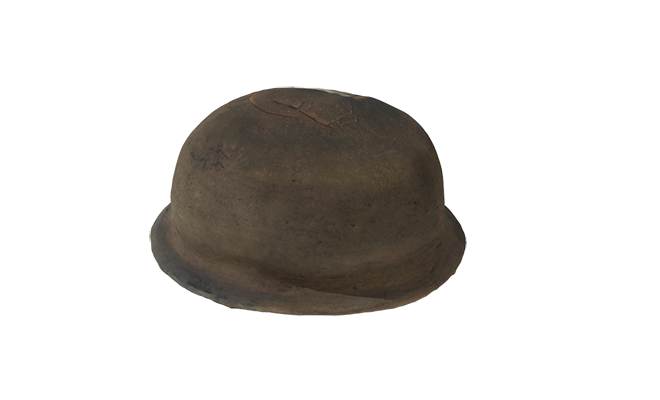
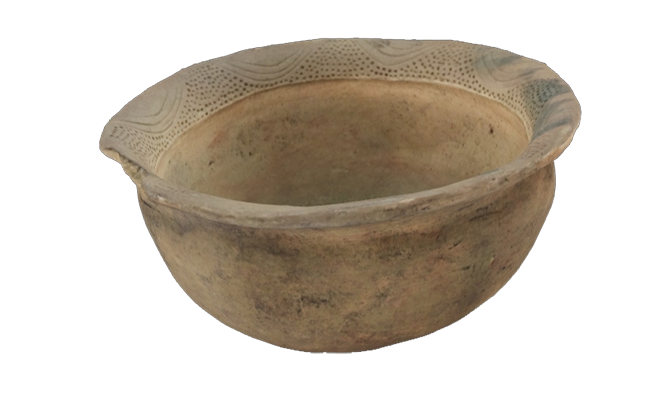
PO changes v1.0

diff --git a/piece-a.html b/piece-a.html
@@ -94,7 +94,7 @@
                             <div class="accordion-content">
                               <p>E/R28/248cm/2627</p>
                               <p>
-                                Copa con boca circular, presenta motivos en pintura negra sobre naranja (Olsen, 1990)
+                                Copa con boca circular, presenta motivos en pintura negra sobre naranja, tipo de pintura negativa  (Olsen, 1990).
                               </p>
                             </div>
                         </div>
@@ -108,10 +108,10 @@
                               cerámica perteneciente al Cauca medio. Se encontró en estructuras funerarias, asociada a grupos agroalfareros t tardío. (Herrera et al, 2017)
                             </p>
                             <p>
-                              Las piezas de cerámica de E/R29/216cm/2652, E/R29/209cm/3904 y E/R28/248cm/2627 son resultados del proyecto de investigación del plan de manejo arqueológico llamado "Monitoreo y rescate arqueológico en la Variante La Paz, predios El Edén, La Guaca, Jamaica y La Libia, municipio de Chinchiná, departamento de Caldas, Ecorregión Eje Cafetero". El objetivo de este proyecto es desarrollar actividades y métodos que permitan un registro completo de la evidencia arqueológica para identificar e interpretar el uso que los antiguos pobladores prehispánicos le dieron al espacio en el que vivian. (AEROCAFE 2018 PAG 1)
+                              Las piezas de cerámica de E/R29/216cm/2652, E/R29/209cm/3904 y E/R28/248cm/2627 son resultados del proyecto de investigación del plan de manejo arqueológico llamado "Monitoreo y rescate arqueológico en la Variante La Paz, predios El Edén, La Guaca, Jamaica y La Libia, municipio de Chinchiná, departamento de Caldas, Ecorregión Eje Cafetero". El objetivo de este proyecto es desarrollar actividades y métodos que permitan un registro completo de la evidencia arqueológica para identificar e interpretar el uso que los antiguos pobladores prehispánicos le dieron al espacio en el que vivian.  (Aldana et al., 2018)
                             </p>
                             <p>
-                              Los objetos que seleccionaron se encuentran en el terreno Edén, que se encuentra en la cima de terrazas aluviales en medio de zonas montañosas con pendientes altas. Debido a su alta fertilidad, estas áreas suelen mostrar indicios de ocupación humana prehispánica.  (AEROCAFE 2018 PAG 1). En el proceso de excavación de una estructura funeraria de pozo con cámara frontal a una profundidad de 2m a 2:30 m, se encontró la cerámica que se leccionó en los Rasgos 28 y 29, y se determinó una fecha de 550 +/-30 BP (Beta 465521), lo que indica una época tardía.(AEROCAFE 2018 PAG 203) colección etnográfica pag 10 
+                              Los objetos que seleccionaron se encuentran en el terreno Edén, que se encuentra en la cima de terrazas aluviales en medio de zonas montañosas con pendientes altas. Debido a su alta fertilidad, estas áreas suelen mostrar indicios de ocupación humana prehispánica. (Aldana et al., 2018). En el proceso de excavación de una estructura funeraria de pozo con cámara frontal a una profundidad de 2m a 2:30 m, se encontró la cerámica que se leccionó en los Rasgos 28 y 29, y se determinó una fecha de 550 +/-30 BP (Beta 465521), lo que indica una época tardía. (Aldana et al., 2018). 
                             </p>
                         </div>
                     </div>

diff --git a/piece-h.html b/piece-h.html
@@ -106,7 +106,7 @@
                               cerámica perteneciente al Cauca medio. Se encontró en estructuras funerarias, asociada a grupos agroalfareros t tardío. (Herrera etal, 2017)
                             </p>
                             <p>
-                              Las piezas de cerámica de E/R29/216cm/2652, E/R29/209cm/3904 y E/R28/248cm/2627 son resultados del proyecto de investigación del plan de manejo arqueológico llamado "Monitoreo y rescate arqueológico en la Variante La Paz, predios El Edén, La Guaca, Jamaica y La Libia, municipio de Chinchiná, departamento de Caldas, Ecorregión Eje Cafetero". El objetivo de este proyecto es desarrollar actividades y métodos que permitan un registro completo de la evidencia arqueológica para identificar e interpretar el uso que los antiguos pobladores prehispánicos le dieron al espacio en el que vivian. (AEROCAFE 2018 PAG 1) Los objetos que seleccionaron se encuentran en el terreno Edén, que se encuentra en la cima de terrazas aluviales en medio de zonas montañosas con pendientes altas. Debido a su alta fertilidad, estas áreas suelen mostrar indicios de ocupación humana prehispánica.  (AEROCAFE 2018 PAG 1). En el proceso de excavación de una estructura funeraria de pozo con cámara frontal a una profundidad de 2m a 2:30 m, se encontró la cerámica que se leccionó en los Rasgos 28 y 29, y se determinó una fecha de 550 +/-30 BP (Beta 465521), lo que indica una época tardía.(AEROCAFE 2018 PAG 203) colección etnográfica pag 10 
+                              Las piezas de cerámica de E/R29/216cm/2652, E/R29/209cm/3904 y E/R28/248cm/2627 son resultados del proyecto de investigación del plan de manejo arqueológico llamado "Monitoreo y rescate arqueológico en la Variante La Paz, predios El Edén, La Guaca, Jamaica y La Libia, municipio de Chinchiná, departamento de Caldas, Ecorregión Eje Cafetero". El objetivo de este proyecto es desarrollar actividades y métodos que permitan un registro completo de la evidencia arqueológica para identificar e interpretar el uso que los antiguos pobladores prehispánicos le dieron al espacio en el que vivian. (Aldana et al., 2018) Los objetos que seleccionaron se encuentran en el terreno Edén, que se encuentra en la cima de terrazas aluviales en medio de zonas montañosas con pendientes altas. Debido a su alta fertilidad, estas áreas suelen mostrar indicios de ocupación humana prehispánica.  (Aldana et al., 2018). En el proceso de excavación de una estructura funeraria de pozo con cámara frontal a una profundidad de 2m a 2:30 m, se encontró la cerámica que se leccionó en los Rasgos 28 y 29, y se determinó una fecha de 550 +/-30 BP (Beta 465521), lo que indica una época tardía. (Aldana et al., 2018). 
                             </p>
                         </div>
                     </div>

diff --git a/piece-c.html b/piece-c.html
@@ -106,7 +106,7 @@
                               cerámica perteneciente al Cauca medio. Se encontró en estructuras funerarias, asociada a grupos agroalfareros t tardío. (Herrera et al, 2017)
                             </p>
                             <p>
-                              Las piezas de cerámica de E/R29/216cm/2652, E/R29/209cm/3904 y E/R28/248cm/2627 son resultados del proyecto de investigación del plan de manejo arqueológico llamado "Monitoreo y rescate arqueológico en la Variante La Paz, predios El Edén, La Guaca, Jamaica y La Libia, municipio de Chinchiná, departamento de Caldas, Ecorregión Eje Cafetero". El objetivo de este proyecto es desarrollar actividades y métodos que permitan un registro completo de la evidencia arqueológica para identificar e interpretar el uso que los antiguos pobladores prehispánicos le dieron al espacio en el que vivian. (AEROCAFE 2018 PAG 1) Los objetos que seleccionaron se encuentran en el terreno Edén, que se encuentra en la cima de terrazas aluviales en medio de zonas montañosas con pendientes altas. Debido a su alta fertilidad, estas áreas suelen mostrar indicios de ocupación humana prehispánica.  (AEROCAFE 2018 PAG 1). En el proceso de excavación de una estructura funeraria de pozo con cámara frontal a una profundidad de 2m a 2:30 m, se encontró la cerámica que se leccionó en los Rasgos 28 y 29, y se determinó una fecha de 550 +/-30 BP (Beta 465521), lo que indica una época tardía.(AEROCAFE 2018 PAG 203) colección etnográfica pag 10 
+                              Las piezas de cerámica de E/R29/216cm/2652, E/R29/209cm/3904 y E/R28/248cm/2627 son resultados del proyecto de investigación del plan de manejo arqueológico llamado "Monitoreo y rescate arqueológico en la Variante La Paz, predios El Edén, La Guaca, Jamaica y La Libia, municipio de Chinchiná, departamento de Caldas, Ecorregión Eje Cafetero". El objetivo de este proyecto es desarrollar actividades y métodos que permitan un registro completo de la evidencia arqueológica para identificar e interpretar el uso que los antiguos pobladores prehispánicos le dieron al espacio en el que vivian. (Aldana et al., 2018) Los objetos que seleccionaron se encuentran en el terreno Edén, que se encuentra en la cima de terrazas aluviales en medio de zonas montañosas con pendientes altas. Debido a su alta fertilidad, estas áreas suelen mostrar indicios de ocupación humana prehispánica. (Aldana et al., 2018). En el proceso de excavación de una estructura funeraria de pozo con cámara frontal a una profundidad de 2m a 2:30 m, se encontró la cerámica que se leccionó en los Rasgos 28 y 29, y se determinó una fecha de 550 +/-30 BP (Beta 465521), lo que indica una época tardía. (Aldana et al., 2018).
                             </p>
                         </div>
                     </div>

diff --git a/piece-g.html b/piece-g.html
@@ -93,7 +93,9 @@
                             <div class="accordion-header">Descripción de la pieza</div>
                             <div class="accordion-content">
                               <p>cl-001-045-02-2-3309</p>
-                              <p>volante de huso con cuerpo macizo y orificio vertical, para introducir el huso, el cual es un palo de madera delgado, en el que se envuelve el hilo para hacerlo girar en el hilado. Diseños lineales y concéntricos (Olsen, 1990)</p>
+                              <p>
+                                Tiene decoración con incisiones entrelazadas en las dos caras del volante de huso  formando patrones triangulares. Además, se detalla un surco que va por medio del cuerpo y lo abarca por completo (Olsen, 1990).
+                              </p>
                             </div>
                         </div>
                     </div>
@@ -103,10 +105,10 @@
                         <div class="accordion-header">Característica de la pieza</div>
                         <div class="accordion-content">
                             <p>
-                              Tiene decoración con incisiones entrelazadas en las dos caras del volante de uso. Además, se detalla un surco que va por medio del cuerpo y lo abarca por completo (Olsen, 1990)
+                              El volante de huso con código CL-001-045-02-2-3309 fue donado al museo, aunque aún se desconoce la fecha de la donación y quién la realizó. Está compuesto por un volante, que es un cuerpo macizo y normalmente circular, que contiene en su centro un orificio vertical utilizado para introducir el huso. Este último consiste en una pieza de madera alargada y redondeada, cuyos extremos se estrechan para ajustarse al orificio, en el que se envuelve el hilo con la ayuda del peso del volante. Los diseños de este volante en particular son lineales y concéntricos (Olsen, 1990).
                             </p>
                             <p>
-                              Volantes de huso como este permitían transformar el algodón en hilos de diferentes grosores que utilizaban los antiguos pobladores de Colombia para tejer mantas, mochilas, cordeles, diademas, tocados, gorros y otras prendas finamente decoradas.
+                              Volantes de huso como este permitían transformar el algodón en hilos de diferentes grosores que utilizaban los antiguos pobladores de Colombia para tejer mantas, mochilas, cordeles, diademas, tocados, gorros y otras prendas finamente decoradas.
                             </p>
                         </div>
                     </div>

diff --git a/piece-f.html b/piece-f.html
@@ -92,7 +92,9 @@
                         <div class="accordion" data-aos="fade-up">
                             <div class="accordion-header">Descripción de la pieza</div>
                             <div class="accordion-content">
-                              <p>Cántaro zoomorfo y de boca circular. Tiene la forma de un ……, En el rostro de este y en todo el borde como labio tiene incisiones en líneas rectas y en puntos.  (Olsen, 1990)</p>
+                              <p>
+                                Cántaro zoomorfo y de boca circular. Tiene la forma de un coatí, En el rostro de este y en todo el borde como labio tiene incisiones en líneas rectas y en puntos. (Olsen, 1990).
+                              </p>
                             </div>
                         </div>
                     </div>
@@ -102,7 +104,10 @@
                         <div class="accordion-header">Característica de la pieza</div>
                         <div class="accordion-content">
                             <p>
-                              vasija o recipiente utilizado para guardar, conservar y transportar líquidos. Similar a una jarra, pero más grande, no tiene ninguna asa. Utilizada por los habitantes del Cauca medio. Olsen, 1990)
+                              el objeto registrado como cl-001-045-02-2-327 corresponde a un cántaro zoomorfo con boca circular, que tiene la forma de un coatí. En su rostro y en el borde, presenta incisiones en líneas rectas y en puntos. Esta pieza pertenece al proyecto de rescate y monitoreo arqueológico Aero-Café en Palestina, Caldas, y fue encontrada en el sitio 2 de La Palma Torres (AEROCAFE, 2018).
+                            </p>
+                            <p>
+                              vasija o recipiente utilizado para guardar, conservar y transportar líquidos. Similar a una jarra, pero más grande, no tiene ninguna asa. Utilizada por los habitantes del Cauca medio. (Olsen 1990).
                             </p>
                         </div>
                     </div>

diff --git a/index.html b/index.html
@@ -90,11 +90,11 @@
     <div class="artefacts">
       <div class="container">
         <div class="row">
-          <p class="h2 text-center" data-aos="fade-up" data-aos-delay="200">MUSEO ETNOGRÁFICO Y ARQUELÓGICO UCALDAS</p>
+          <p class="h2 text-center" data-aos="fade-up" data-aos-delay="200">COLECCIONES ARQUEOLÓGICA Y ETNOGRÁFICA DEL CENTRO DE MUSEOS DE LA UNIVERSIDAD DE CALDAS</p>
         </div>
         <div class="row">
           <p class="h6 text-muted text-center" data-aos="fade-up" data-aos-delay="200">
-            Te damos la bienvenida a un espacio donde podrás apreciar el patrimonio arqueológico y etnográfico desde una experiencia en el mundo digital. Presentamos piezas que nos conectan con las sociedades del pasado que habitaron el Cauca medio de Colombia.
+            Te damos la bienvenida a un espacio donde podrás apreciar el patrimonio arqueológico y etnográfico desde una experiencia en el mundo digital. Presentamos piezas que nos conectan con las sociedades del pasado que habitaron el Cauca medio, Magdalena medio y Amazonia de Colombia.
           </p>
         </div>
         <div class="row">
@@ -106,7 +106,7 @@
               <div class="card-body">
                 <h5 class="card-title text-center linkeable_element main-society-link-malambo go-arq-list" data-aos="fade-up" data-aos-delay="200">Arqueológico</h5>
                 <p class="card-text text-center" data-aos="fade-up" data-aos-delay="200">
-                  Exploramos los vestigios arqueológicos que nos revelan los secretos de las antiguas culturas. Desde cerámica hasta herramientas de piedra, estas piezas nos transportan al pasado y nos permiten comprender cómo vivían nuestros ancestros.
+                  Exploramos los vestigios arqueológicos que nos revelan los secretos de las antiguas culturas. Desde cerámica hasta herramientas líticas, estas piezas nos transportan al pasado y nos permiten comprender cómo vivían nuestros ancestros.
                 </p>
               </div>
             </div>
